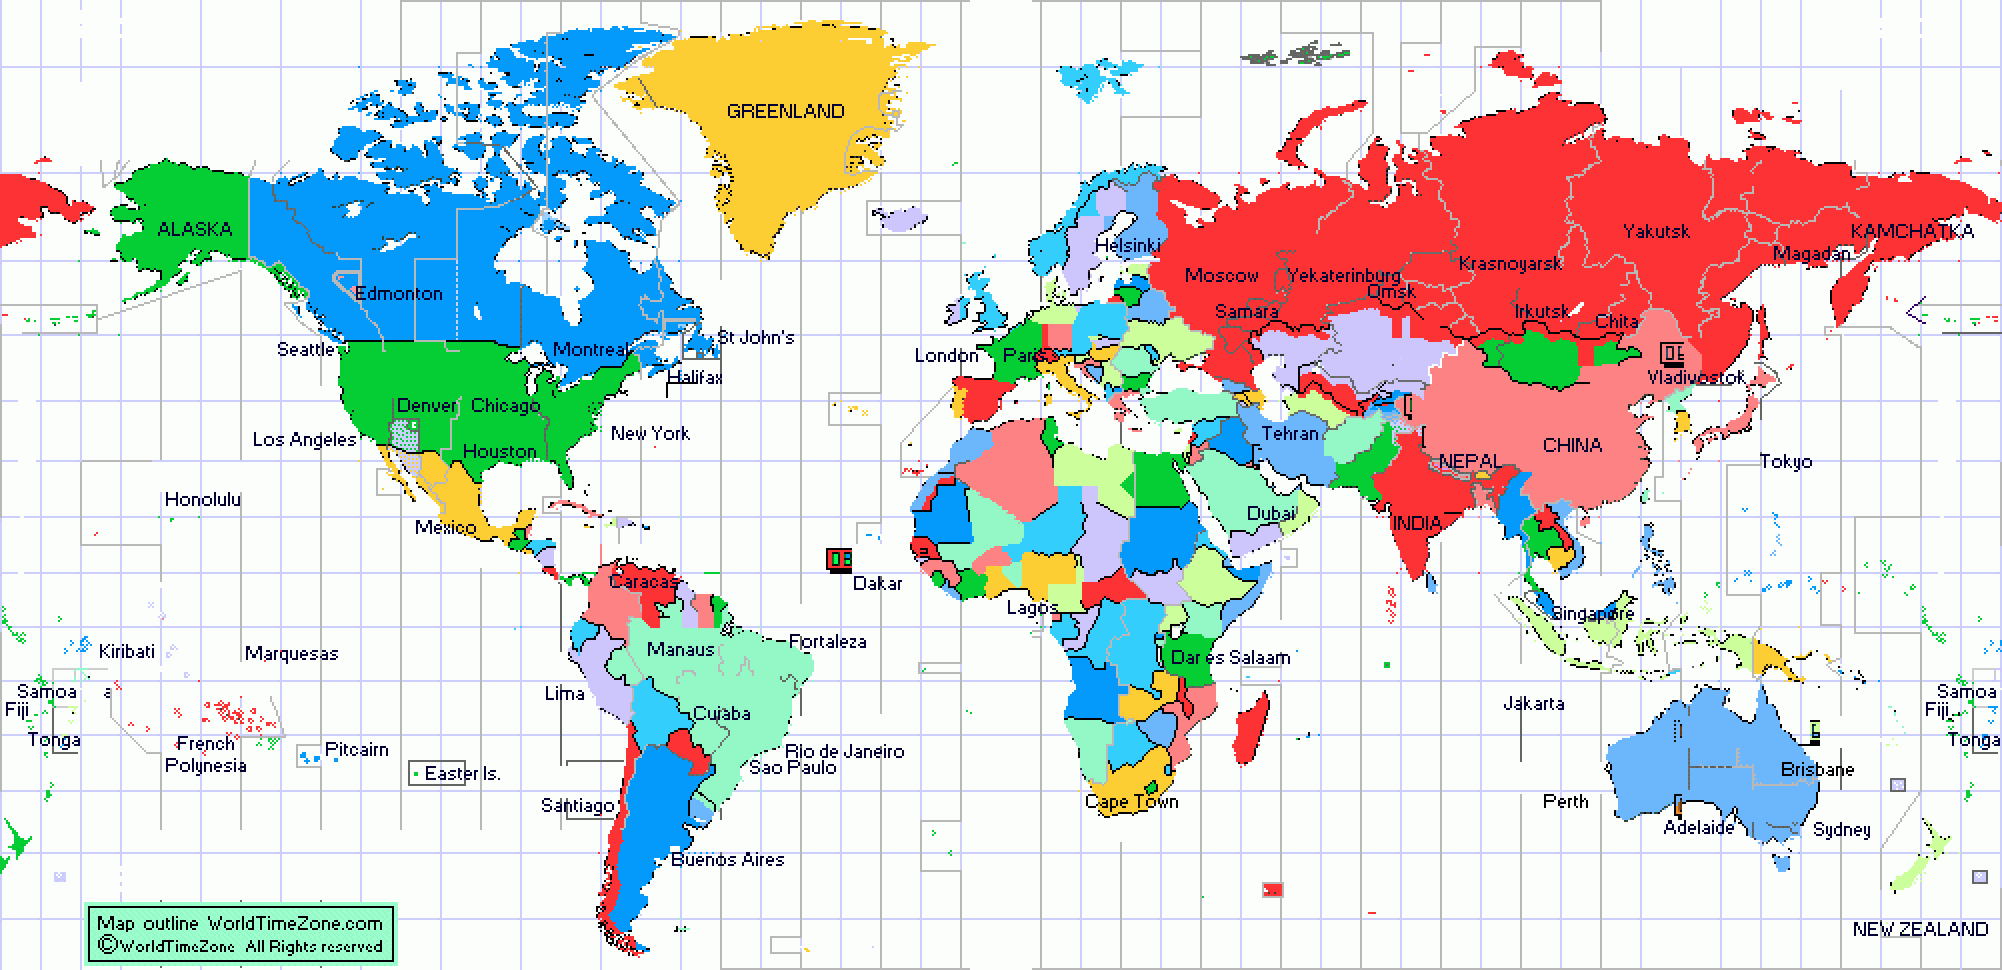
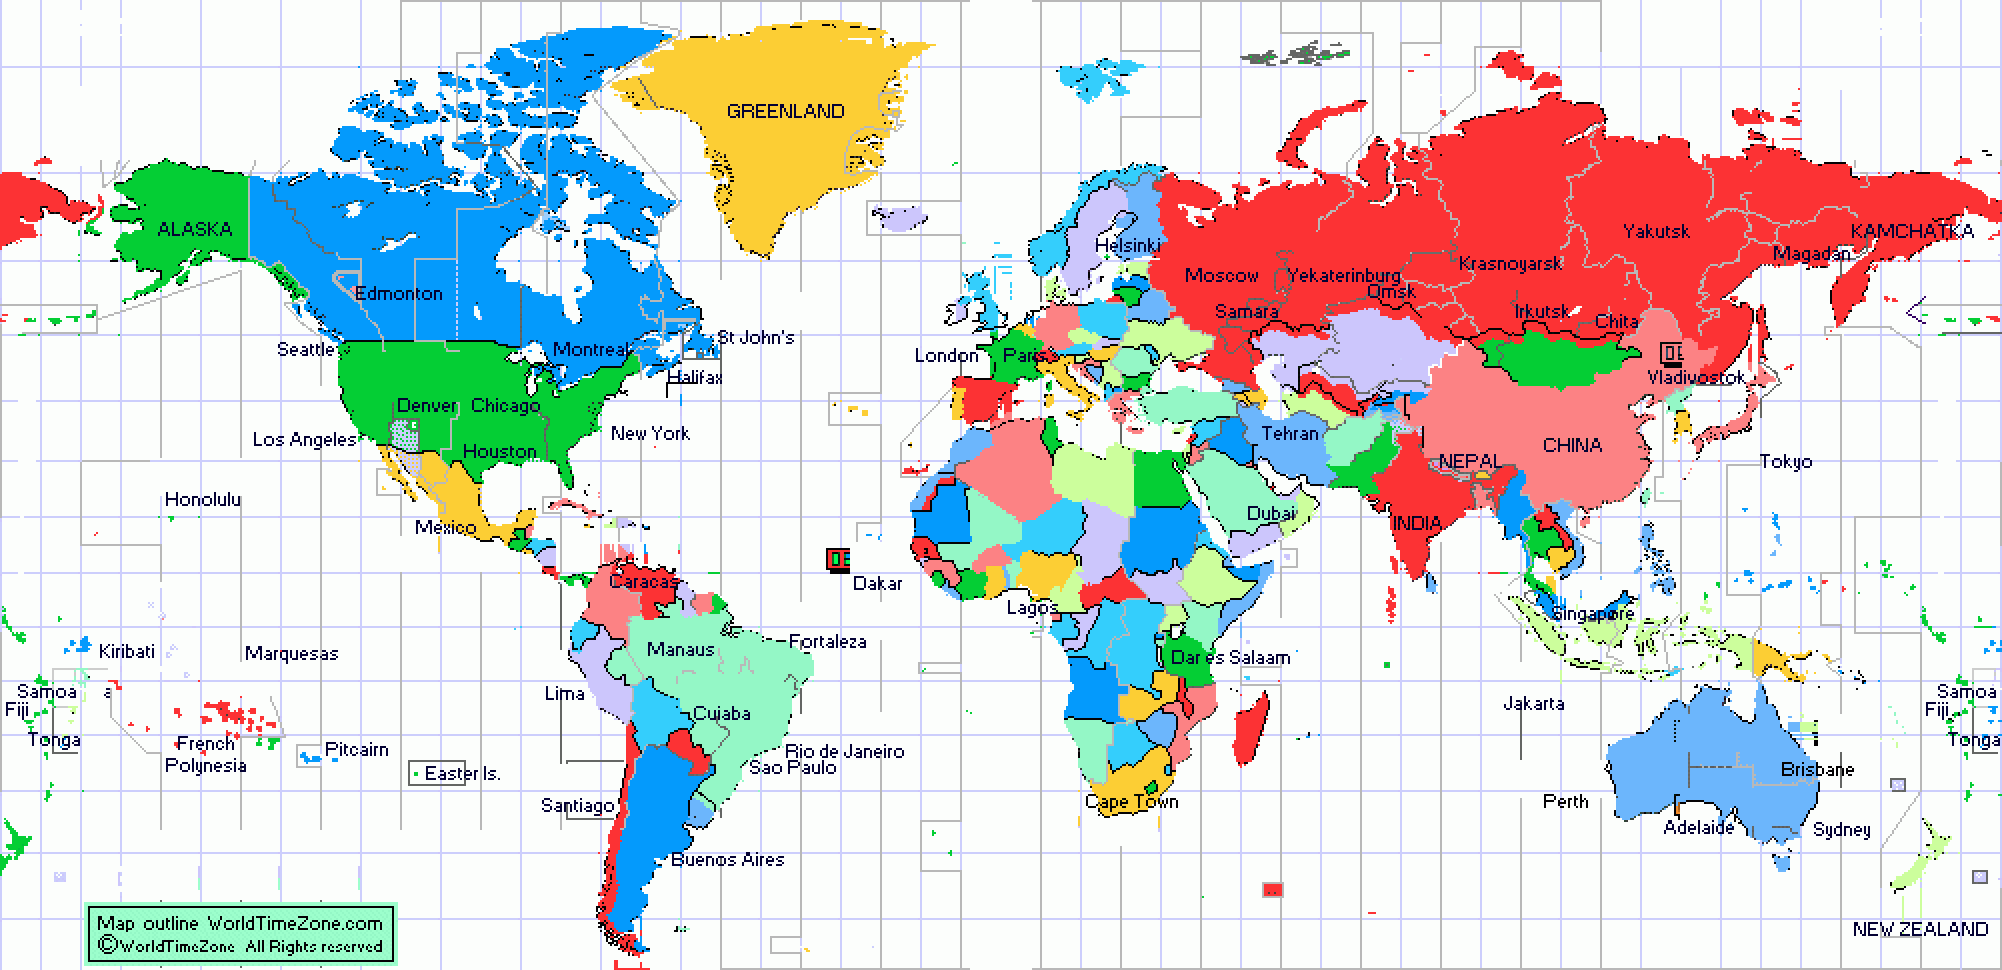
feat: v012 candidate round 5 — hidden land wears its own registered country's colour
Round-4 closures: reconstruction colour from the pixel's registered country (fixes
Sabah green / Paris salmon-ghost classes); wipe pads widened (plate corner remnants);
land class requires grid agreement + source proximity; sandwich override for warp
gaps. Identity 13/13; candidate 13/13.

diff --git a/artifacts/runs/world-map-recolor-v001/assembly/compose_v4.py b/artifacts/runs/world-map-recolor-v001/assembly/compose_v4.py
@@ -214,7 +214,7 @@ for (x0, y0, x1, y1) in dedup:
 R1 = np.zeros((H, W), bool)
 for (x0, y0, x1, y1) in grown:
     if not credit[max(0, y0):y1, max(0, x0):x1].any():
-        R1[max(0, y0 - 1):y1 + 1, max(0, x0 - 1):x1 + 1] = True
+        R1[max(0, y0 - 2):y1 + 3, max(0, x0 - 2):x1 + 3] = True
 
 R2 = np.zeros((H, W), bool)
 laby, ny = ndimage.label(ndimage.binary_dilation(YELLOW, iterations=1))
@@ -304,7 +304,7 @@ difB3 = ndimage.mean(diff_d3.astype(np.float32), labB3, range(1, nB3 + 1))
 annB3 = ndimage.mean(annotish.astype(np.float32), labB3, range(1, nB3 + 1))
 spareB = np.zeros(nB3 + 1, bool)
 inW3 = ndimage.mean(wiped.astype(np.float32), labB3, range(1, nB3 + 1))
-spareB[1:] = (szB3 <= 80) & (difB3 == 0.0) & (annB3 < 0.3) & (inW3 < 0.85)
+spareB[1:] = (szB3 <= 80) & (difB3 == 0.0) & (annB3 < 0.3) & (inW3 < 0.95)
 wiped &= ~(spareB[labB3] & BLACK)    # black glyphs with no changing digits nearby are labels
 
 # ---------------------------------------------------------------- recolour
@@ -389,9 +389,23 @@ wy, wx = np.where(wiped)
 # under annotations the source carries no truth; the locally-registered grid (#146,
 # residual <=2 px in every populated region) supplies land/sea class and the coastline.
 # Colours still come only from source-frame donors. Documented #143 exception on #147.
-is_land = regcid[wy, wx] >= 0
+sandL2 = np.zeros((H, W), bool); sandR2 = np.zeros((H, W), bool)
+sandU2 = np.zeros((H, W), bool); sandD2 = np.zeros((H, W), bool)
+for k in range(1, 19):
+    sandL2 |= np.roll(donor_land, k, axis=1)
+    sandR2 |= np.roll(donor_land, -k, axis=1)
+    sandU2 |= np.roll(donor_land, k, axis=0)
+    sandD2 |= np.roll(donor_land, -k, axis=0)
+sand10 = (sandL2 & sandR2) | (sandU2 & sandD2)
+anyNear = sandL2 | sandR2 | sandU2 | sandD2
+cid_raw2 = np.load("countries-raw.npy").astype(np.int32)
+agree = (regcid[wy, wx] >= 0) & ((cid_raw2[wy, wx] >= 0) | (dl[0][wy, wx] <= 10))
+is_land = (agree & anyNear[wy, wx]) | sand10[wy, wx]
 ly, lx = wy[is_land], wx[is_land]
-O[ly, lx] = O[dl[1][0][ly, lx], dl[1][1][ly, lx]]
+has_c = regcid[ly, lx] >= 0
+O[ly[has_c], lx[has_c]] = colour_of[regcid[ly[has_c], lx[has_c]]]
+nb2 = ~has_c
+O[ly[nb2], lx[nb2]] = O[dl[1][0][ly[nb2], lx[nb2]], dl[1][1][ly[nb2], lx[nb2]]]
 sy, sx = wy[~is_land], wx[~is_land]
 O[sy, sx] = (0xFC, 0xFE, 0xFC)
 gridland = regcid >= 0

diff --git a/artifacts/runs/world-map-recolor-v001/visual-gate/review_gate.py b/artifacts/runs/world-map-recolor-v001/visual-gate/review_gate.py
@@ -137,7 +137,7 @@ for c in [(0x04,0x9A,0xFC),(0xFC,0x32,0x34),(0x04,0xCE,0x34),(0xFC,0xCE,0x34),(0
     fillsS |= eq(S, *c)
 blackS = eq(S, 4, 2, 4)
 for (bx0, by0, bx1, by1) in _pair_boxes(blackS) + [b for b in _pair_boxes(blackS, transpose=True, hi=220) if b[2] - b[0] <= 18 and float(fillsS[b[1]:b[3], b[0]:b[2]].mean()) < 0.25]:
-    plate_annot[max(0, by0 - 3):by1 + 3, max(0, bx0 - 3):bx1 + 3] = True
+    plate_annot[max(0, by0 - 5):by1 + 5, max(0, bx0 - 5):bx1 + 5] = True
 shadowS = eq(S, 0x34, 0x32, 0x34)
 dark_bs2 = blackS | shadowS
 second = src_p.parent / "wtz-map-second.gif"
@@ -173,7 +173,7 @@ for (bx0, by0, bx1, by1) in _boxes:
             x1 += 1; g = True
         if not g:
             break
-    plate_annot[max(0, y0 - 3):y1 + 3, max(0, x0 - 3):x1 + 3] = True
+    plate_annot[max(0, y0 - 5):y1 + 5, max(0, x0 - 5):x1 + 5] = True
 # marker rectangles (straight-edged fill boxes framed dark, ringed by sea)
 whiteS = eq(S, 0xFC, 0xFE, 0xFC) | eq(S, 0xCC, 0xCE, 0xFC)
 labF2, nF2 = ndimage.label(fillsS)
